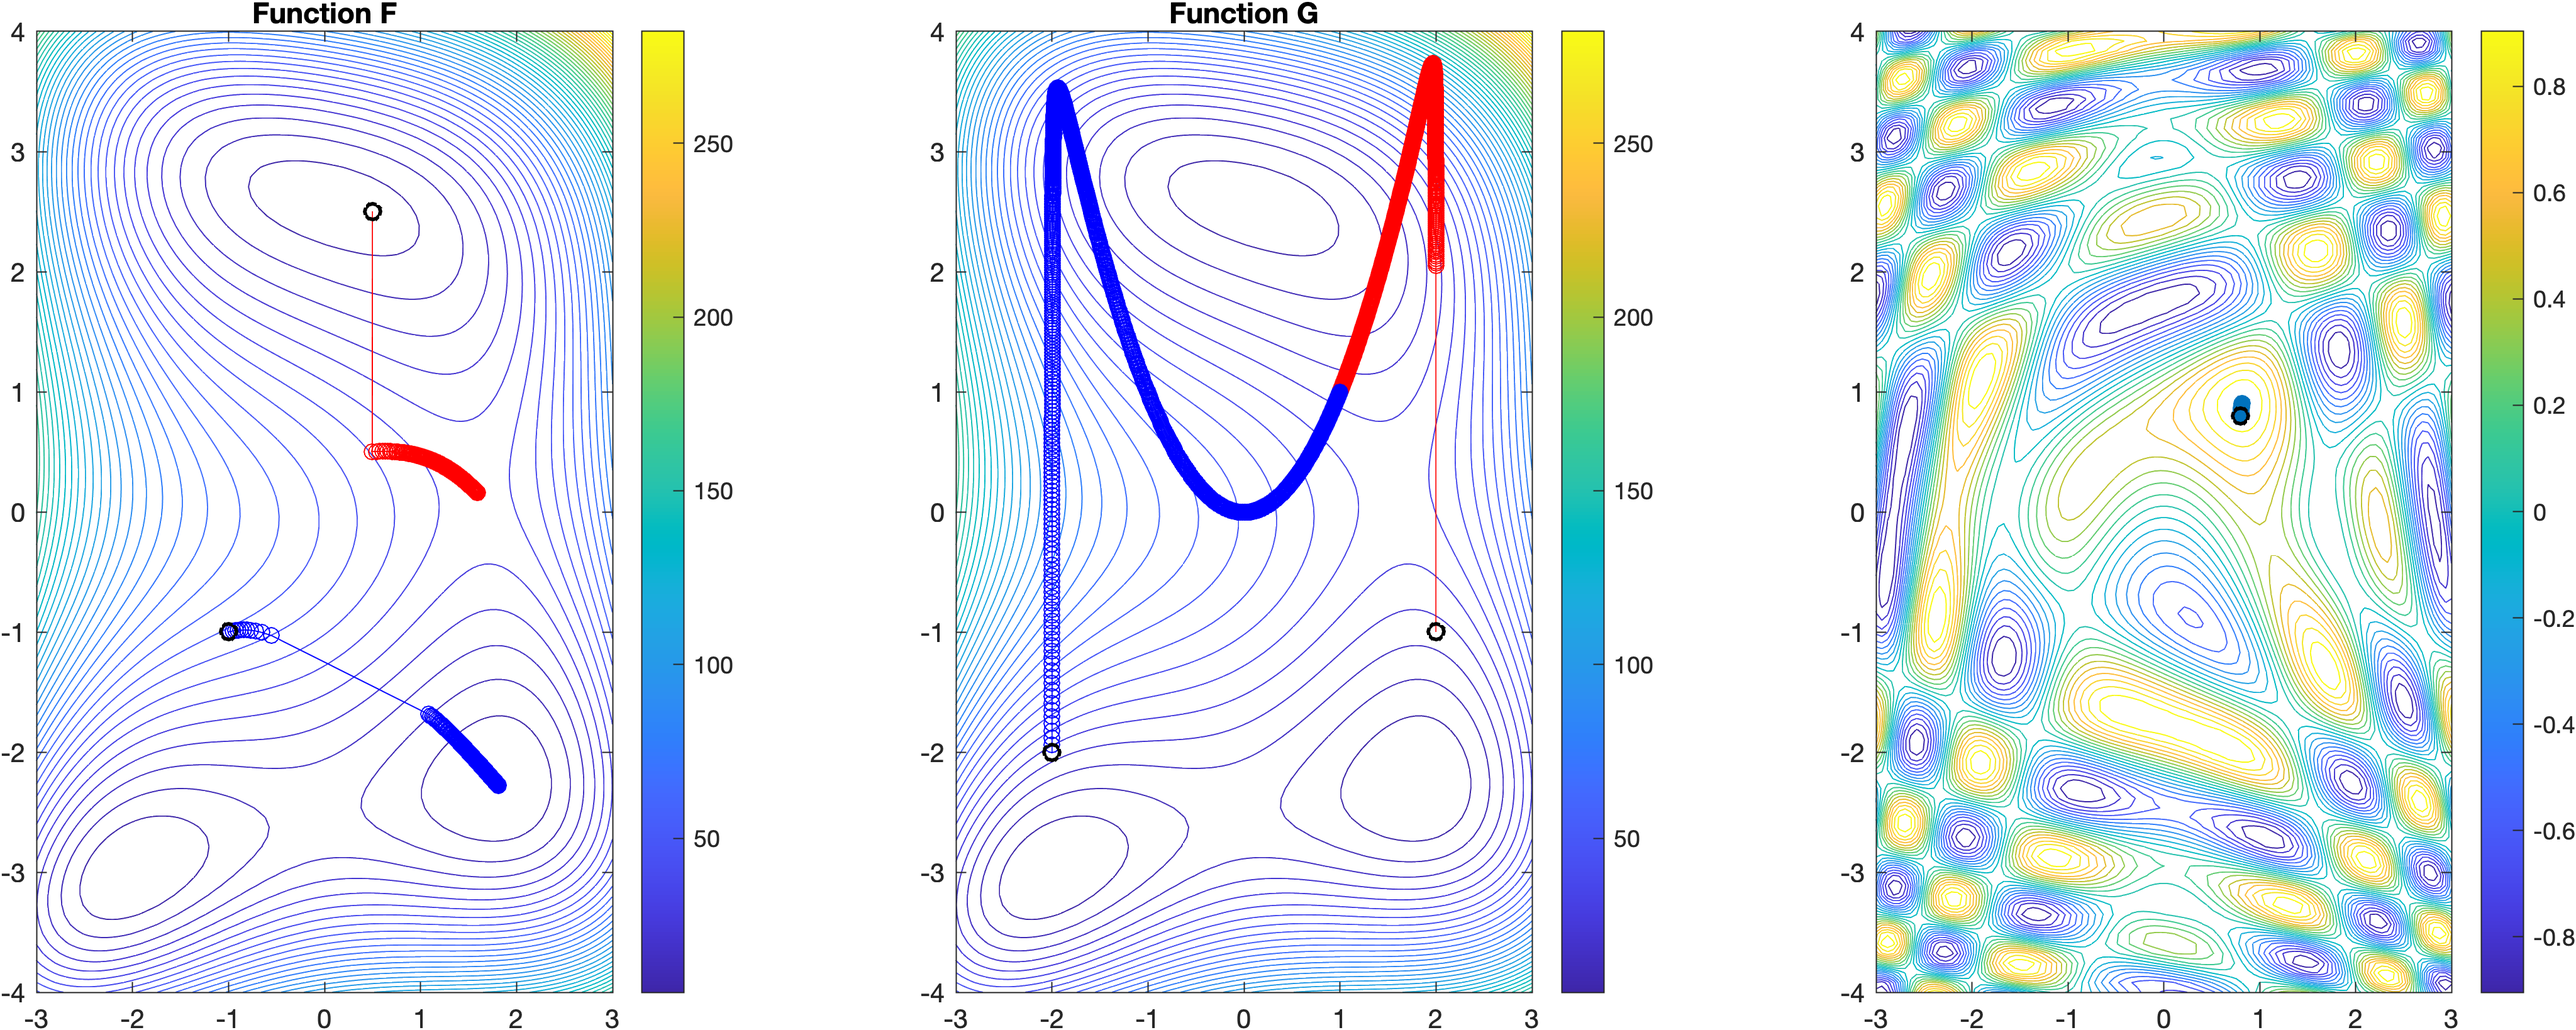
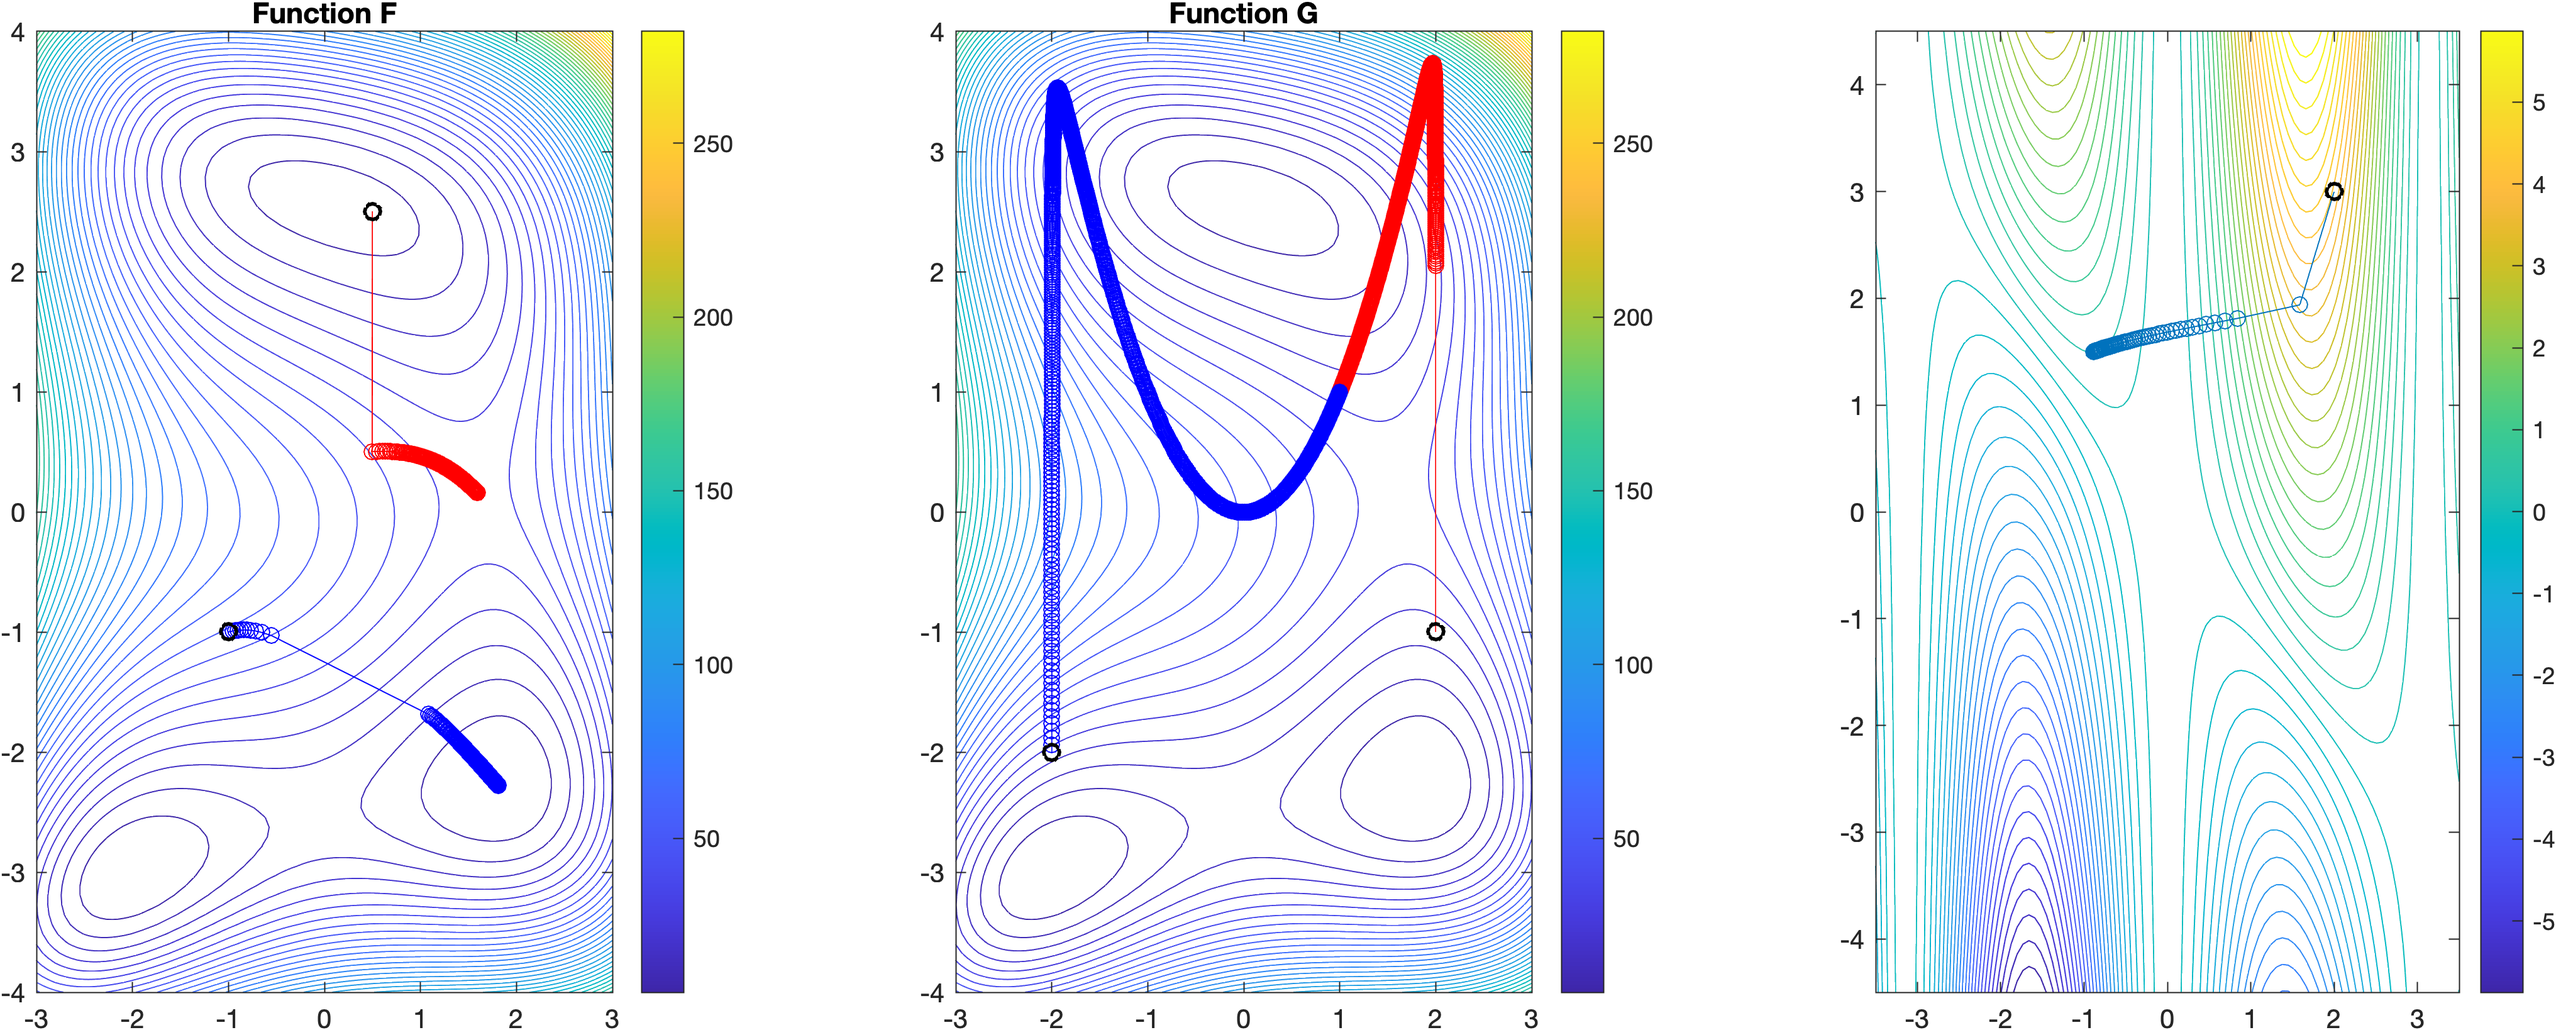
fixed bug in symbolic newton

diff --git a/Assignment1/src/newton_method/newton_symbolic.m b/Assignment1/src/newton_method/newton_symbolic.m
@@ -1,17 +1,20 @@
-function [steps] = newton_symbolic(fun, x0, y0, alpha)
+function [steps] = newton_symbolic(fun, x0, y0, alpha, N)
     
     syms x y;
     grad = matlabFunction(gradient(fun(x,y), [x y]), 'Vars', [x y]);
     H = matlabFunction(hessian(fun(x, y), [x y]), "Vars", [x y]);
     
-    N = 1000;
-    steps = zeros(N,2);
+%     N = 1000;
+%     steps = zeros(N,2);
     
     xk = [x0,y0];
+    steps = [x0,y0,fun(x0,y0)];
 
     for i = 1:N
         xk1 = xk - alpha*inv(H(xk(1),xk(2))) * grad(xk(1),xk(2));
-        steps(i,:) = [xk1(1),xk1(2)];
+        z = fun(xk1(1), xk1(2));
+        steps = [steps; [xk1(1), xk1(2), z]];
+%         steps(i,:) = [xk1(1),xk1(2)];
         xk = xk1;
     end
 end

diff --git a/Assignment1/src/newton_method/main_newton.m b/Assignment1/src/newton_method/main_newton.m
@@ -55,18 +55,19 @@ title('Function G');
 %% Symbolic differentiation
 % !!!! something is wrong here ... !!!
 syms x y;
-func = @(x, y) sin(x.^2+y).*cos(x-y.^2);
-steps_sym = newton_symbolic(func,0.8,1,0.01);
+func = @(x, y) (x+y).*sin(x-y^2).^2;
+steps_sym = newton_symbolic(func,2,3,0.1,1e4);
 
-x = linspace(-3, 3);
-y = linspace(-4, 4);
+x = linspace(-3.5, 3.5);
+y = linspace(-4.5, 4.5);
 [X, Y] = meshgrid(x,y);
-
 Z = func(X, Y);
+
 subplot(1,3,3);
-contour(X,Y,Z,20);
+contour(X,Y,Z,50);
 hold on;
-plot(steps_sym(:,1), steps_sym(:,2), "-o");hold on;
+plot(steps_sym(:,1), steps_sym(:,2), "-o");
+hold on;
 plot(steps_sym(1,1),steps_sym(1,2),'ko','linewidth',1.5); %starting point
 colorbar();
 
